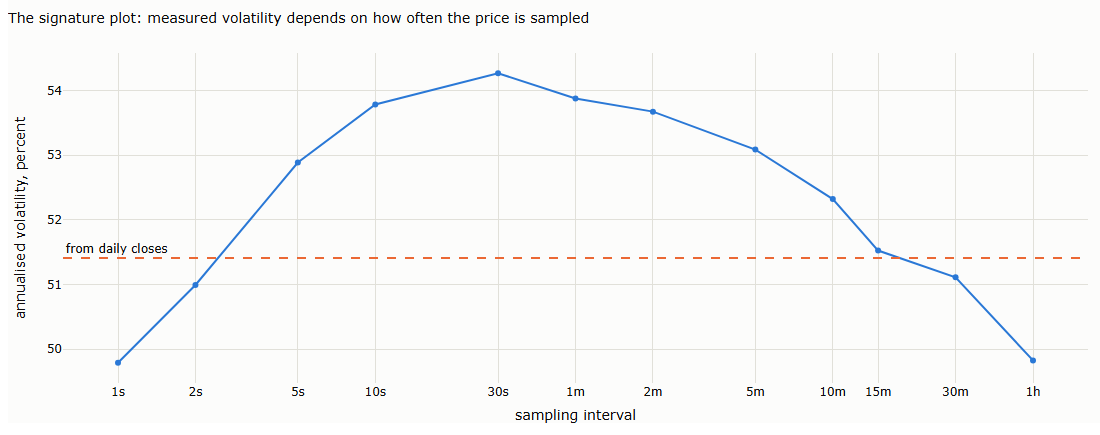
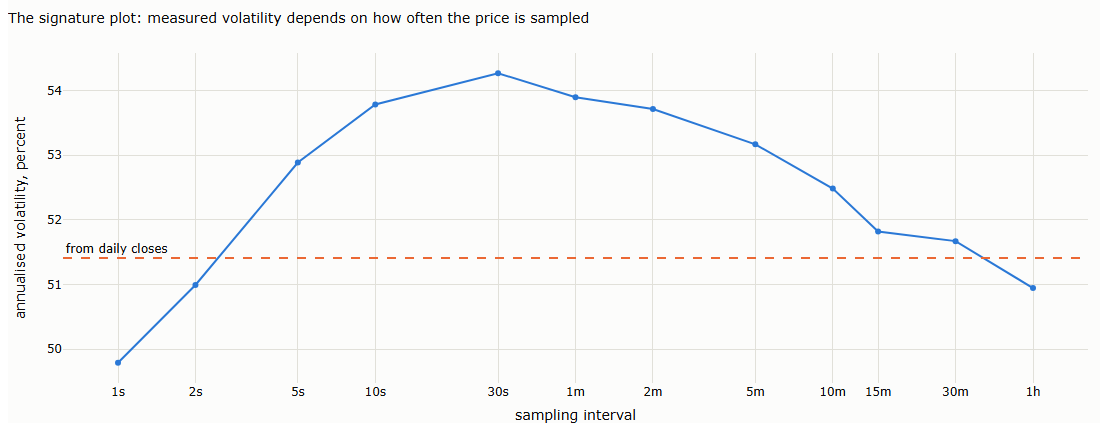
Lecture 12 §6.5: include the return across midnight; clearer reading of the signature plot

diff --git a/lectures/12-tick-data-the-tape/lecture.md b/lectures/12-tick-data-the-tape/lecture.md
@@ -416,9 +416,15 @@ Realised volatility adds up squared returns over short intervals. In theory, the
 
 | Sampling interval | 1 second | 30 seconds | 5 minutes | 1 hour | Daily closes |
 |---|---|---|---|---|---|
-| Annualised volatility | 49.8% | 54.3% | 53.1% | 49.8% | 51.4% |
+| Annualised volatility | 49.8% | 54.3% | 53.2% | 50.9% | 51.4% |
 
-The curve rises up to about 30 seconds and falls beyond. At one second, part of each move is still to come, because moves continue for a few seconds (the +0.07 above), so one-second returns understate the variance. Beyond a few minutes, small reversals lower the measured variance again. With a tick of $0.10 on a price of $20,000 to $120,000, the bounce is too small to inflate the one-second estimate, as it does for many stocks. These explanations fit the numbers but are not tested here. The practical result is reassuring: from 15 minutes to an hour, every interval lies within two points of the 51.4% measured from daily closes, and no interval is more than three points away. Lecture 3, §4.4 compared volatility estimators from daily bars; §7 compares them with this realised volatility.
+The shape of the curve has a meaning. If returns were independent, every interval would give the same answer and the curve would be flat. Where it rises with the interval, returns over short intervals are positively correlated: moves continue. Where it falls, they reverse.
+
+For many stocks, the textbook curve is highest at the shortest intervals: the bid-ask bounce adds noise to every sampled price, and the noise adds variance (each return contains two noise terms, so the bias grows with the number of returns). Here the bounce is too small to matter. Half a tick is $0.05 on a price of $20,000 or more, and even if the last trade of every second fell at random on the bid or the ask, it would add 0.04% to the daily variance. What the curve shows instead is continuation over the first 30 seconds, from 49.8% to 54.3%, and a slight reversal beyond, to 50.9% at one hour. Why moves continue for some seconds is not tested here. Large orders executed in slices (§6.4) and prices that adjust to news in steps are candidates; Hansen and Lunde (2006) report that microstructure noise is correlated with changes in the underlying price, which can produce a curve of this shape.
+
+Every day's realised variance covers the full 24 hours, including the return across midnight: the returns of a day must add up to the day's return, as a daily close-to-close return does. For markets that close overnight, Hansen and Lunde (2005) add the overnight return in the same way.
+
+The practical result is reassuring: from 15 minutes to an hour, every interval lies within 0.6 points of the 51.4% measured from daily closes. Lecture 3, §4.4 compared volatility estimators from daily bars; §7 compares them with this realised volatility.
 
 The single moments behind these statistics were shown in §5.4: a flash crash in which aggressive selling swept through an empty book, the busiest minute, with 62 times the usual rate of trades, and the largest trade, met at one price.
 
@@ -429,3 +435,5 @@ The single moments behind these statistics were shown in §5.4: a flash crash in
 - Barndorff-Nielsen, O. E., Hansen, P. R., Lunde, A. and Shephard, N. (2009). Realized kernels in practice: trades and quotes. *Econometrics Journal* 12(3), C1–C32. — cleaning rules for high-frequency data (§5).
 - Brownlees, C. T. and Gallo, G. M. (2006). Financial econometric analysis at ultra-high frequency: data handling concerns. *Computational Statistics & Data Analysis* 51(4), 2232–2245. — outlier detection with a granularity term (§5).
 - Dacorogna, M. M., Gençay, R., Müller, U. A., Olsen, R. B. and Pictet, O. V. (2001). *An Introduction to High-Frequency Finance*. Academic Press, chapter "Adaptive data cleaning". — filtering as a process (§5).
+- Hansen, P. R. and Lunde, A. (2005). A realized variance for the whole day based on intermittent high-frequency data. *Journal of Financial Econometrics* 3(4), 525–554. — including the return outside the sampled hours (§6.5).
+- Hansen, P. R. and Lunde, A. (2006). Realized variance and market microstructure noise. *Journal of Business & Economic Statistics* 24(2), 127–161. — noise correlated with the efficient price (§6.5).
